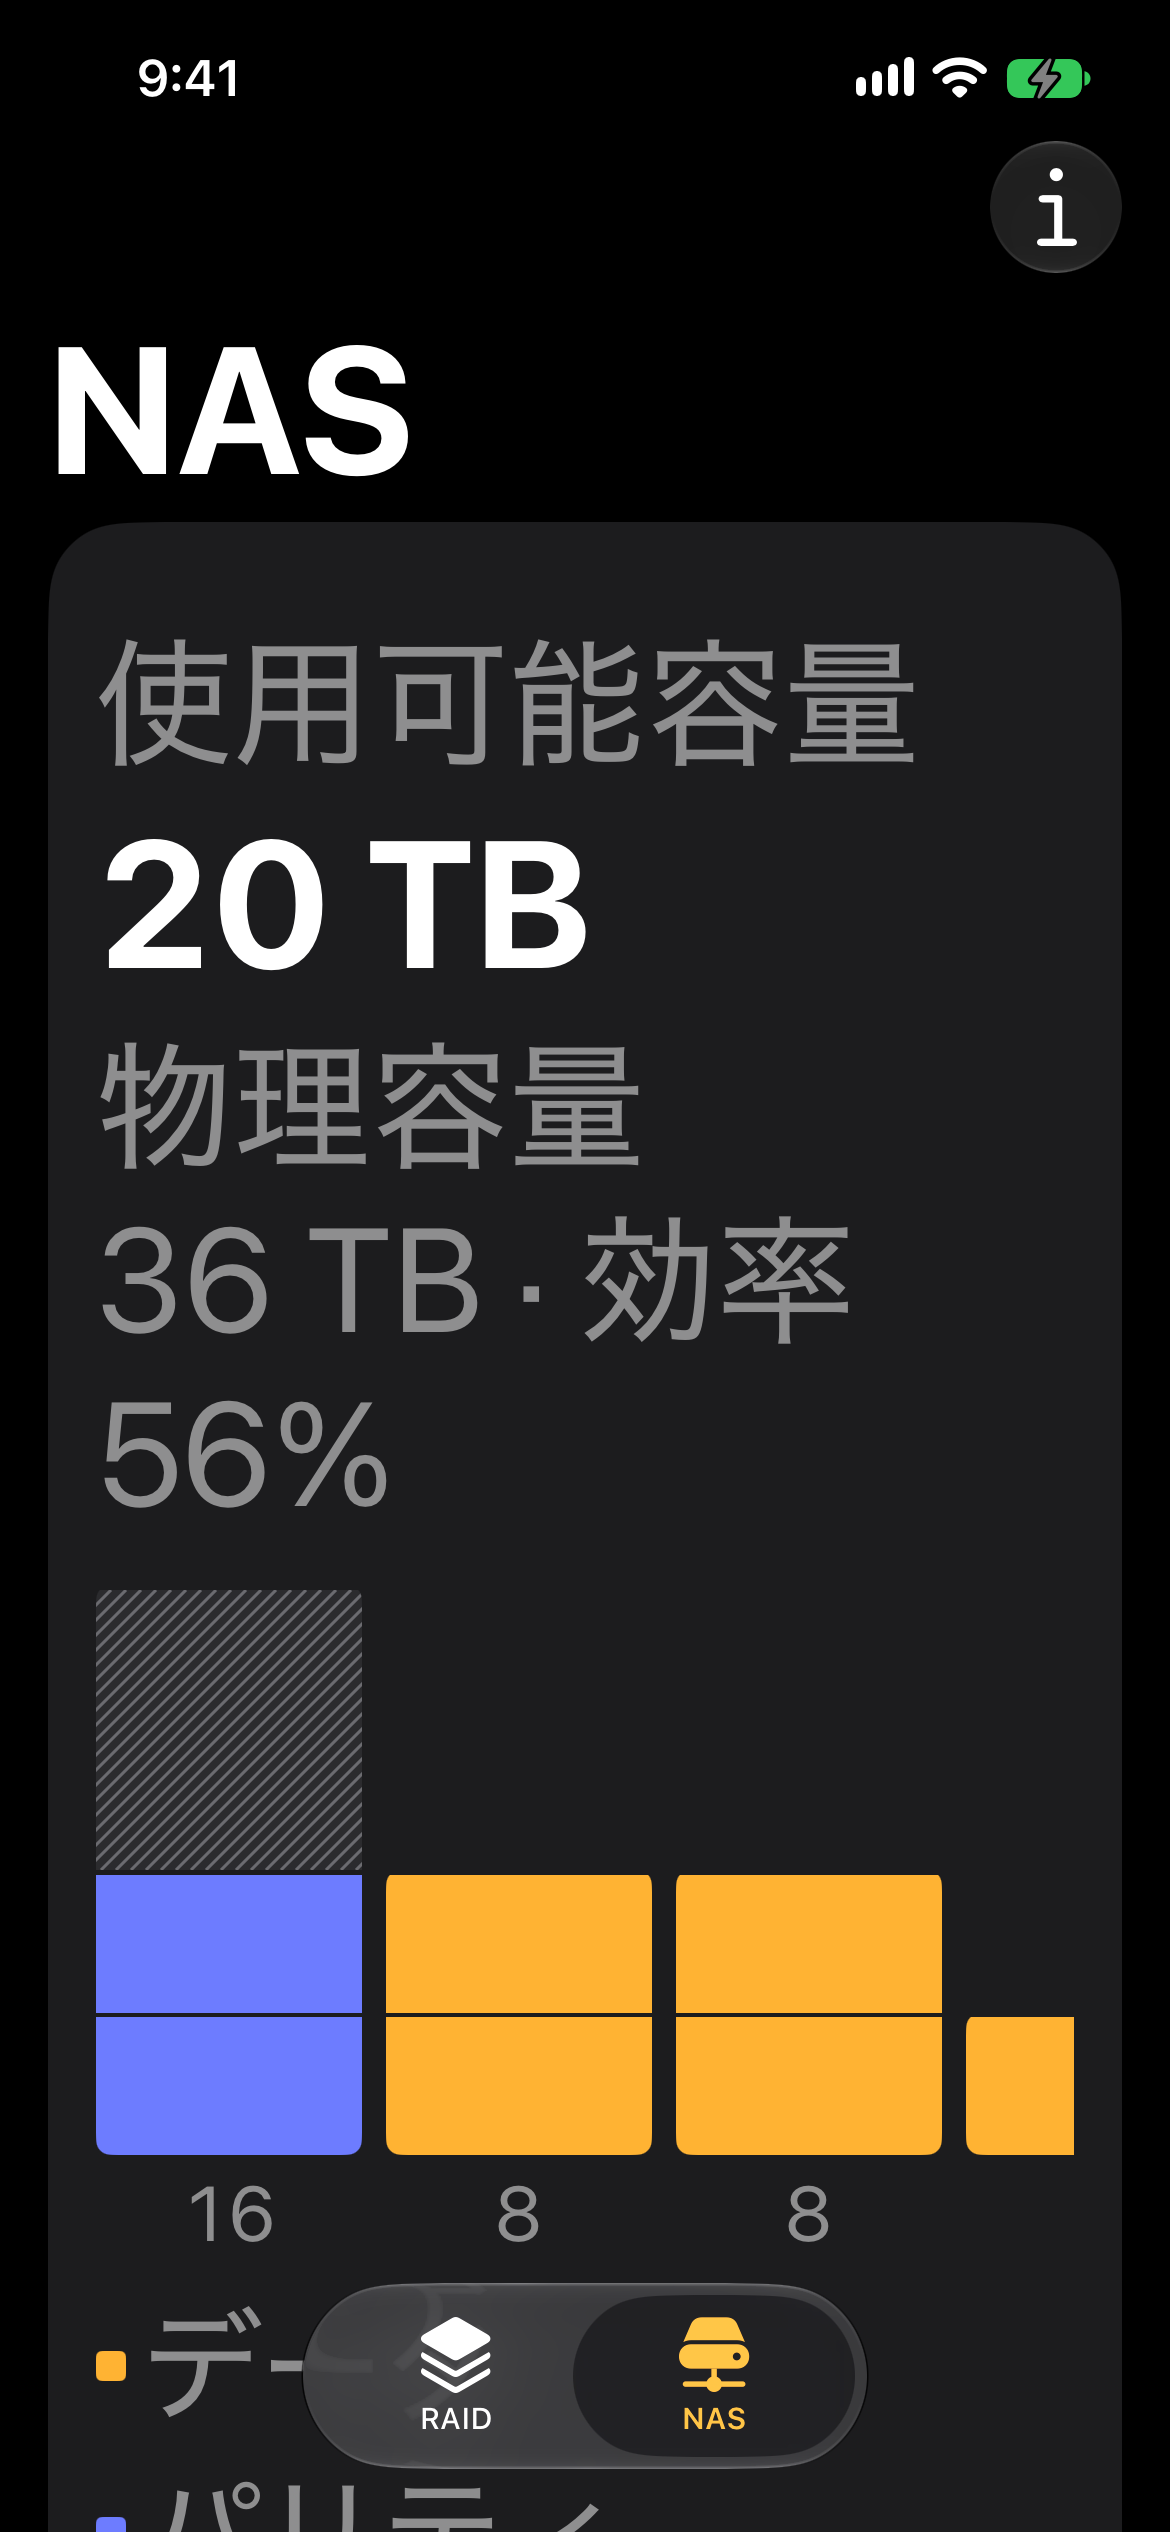
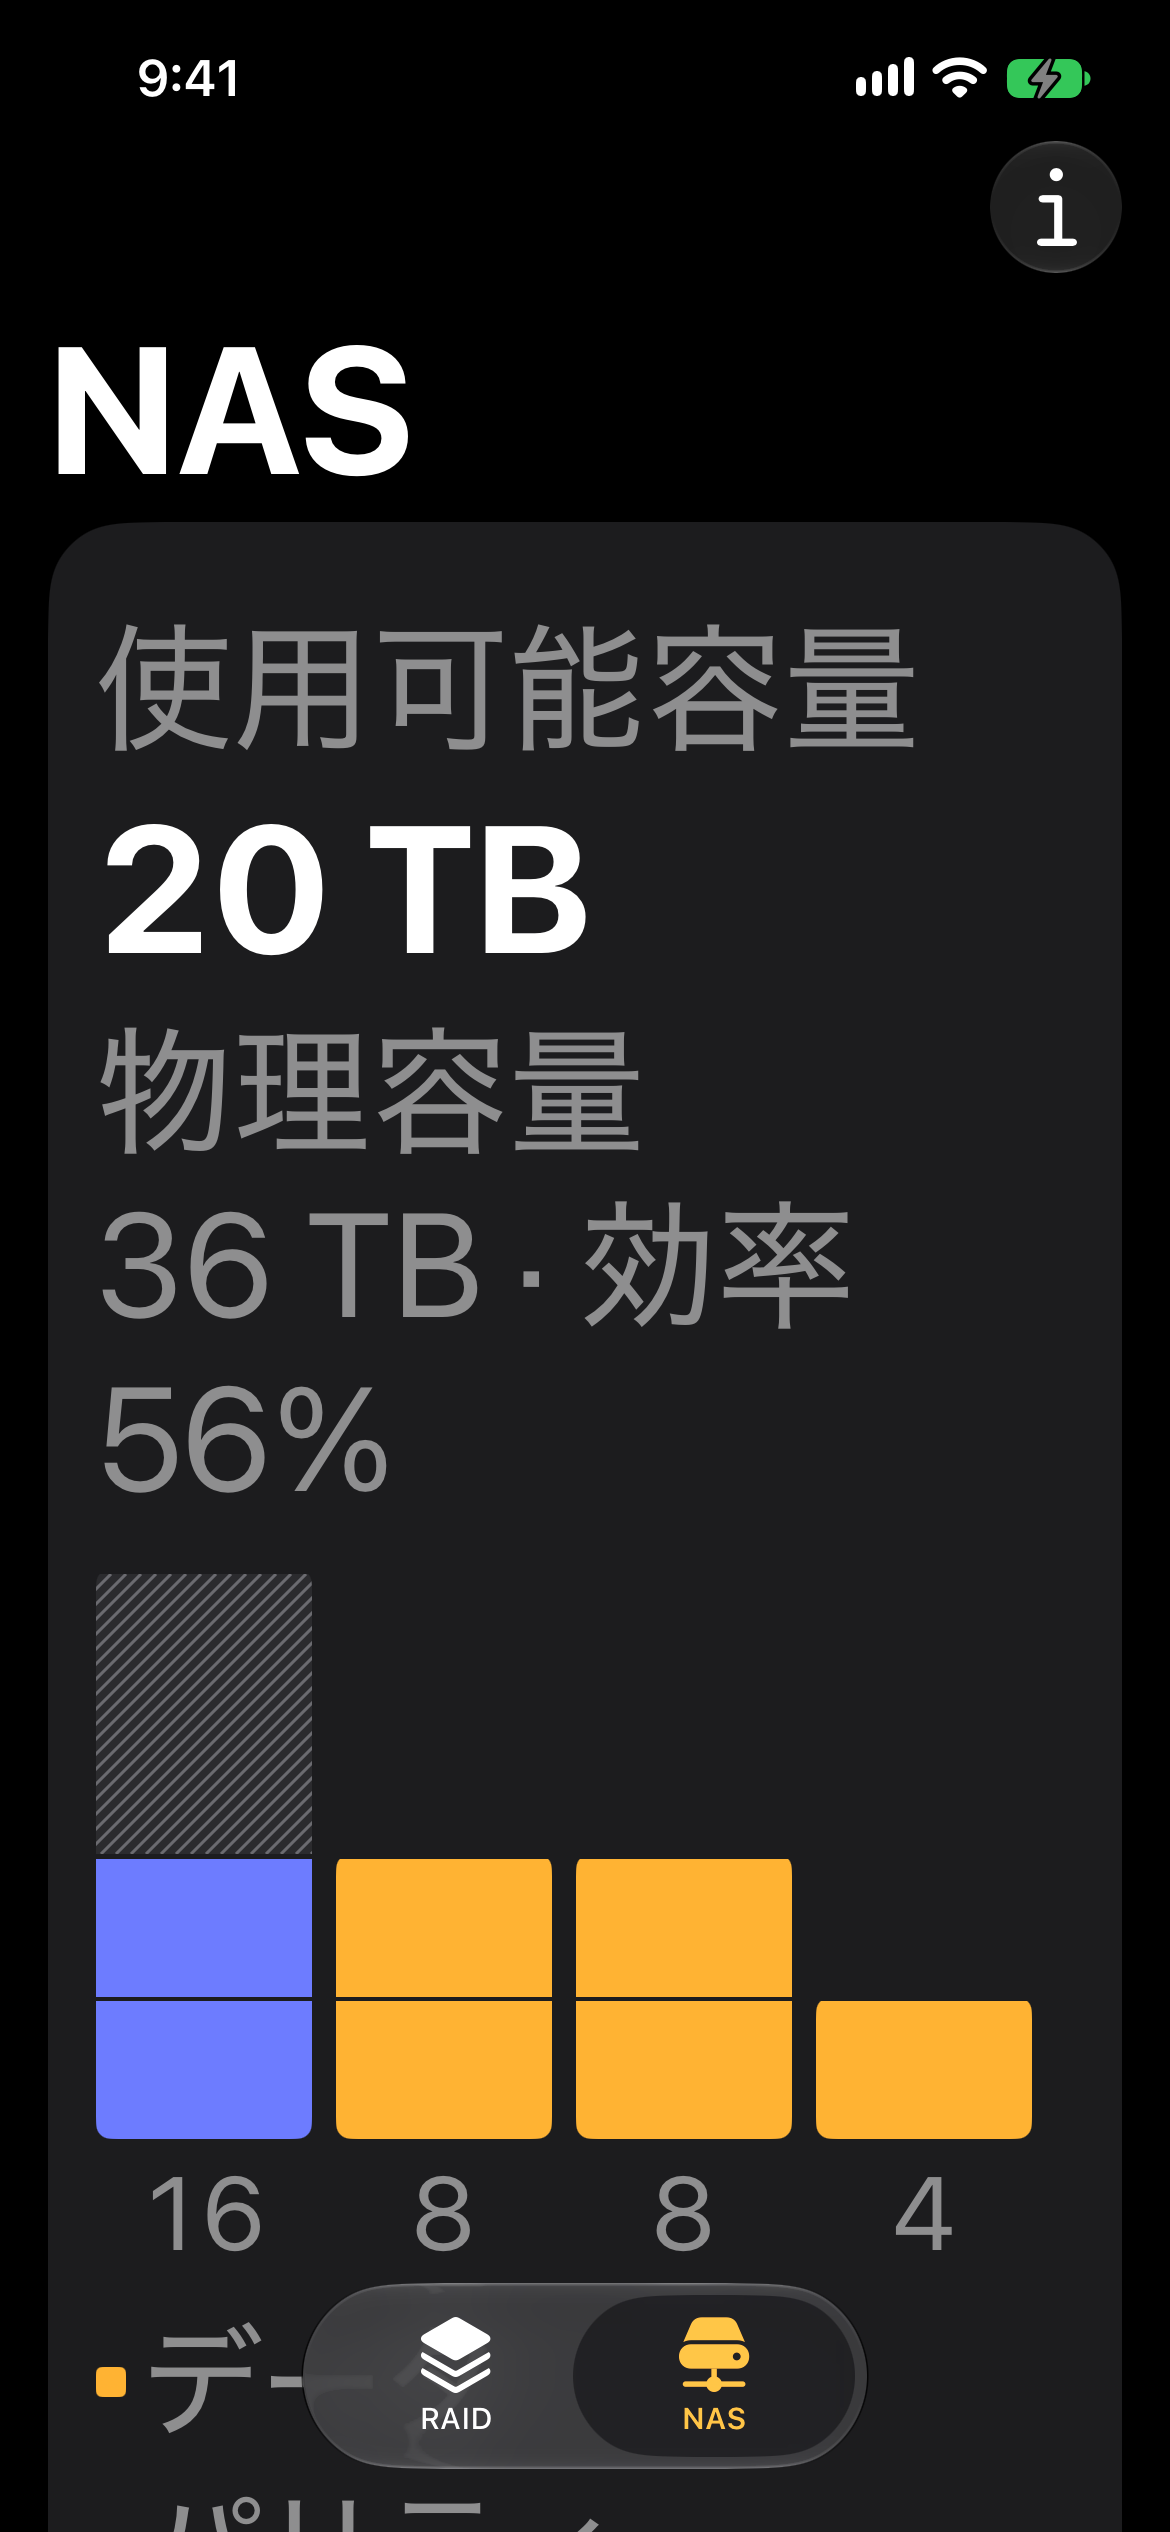
Cap the bay diagram's column width at large text sizes
At AX XXXL the scaled minimum column (24 pt relative to caption2)
reached about 87 pt, so on an iPhone 17e even Synology's four bays
scrolled and the fourth was cut off at the card edge. The minimum now
stops at 64 pt; the maximum stays max(72, minColumn). Four bays fit,
14 ZFS bays still scroll. Replaces the two affected sweep screenshots.

diff --git a/RaidCalculator2/NASView.swift b/RaidCalculator2/NASView.swift
@@ -446,8 +446,11 @@ struct BayDiagram: View {
     @Environment(\.horizontalSizeClass) private var horizontalSizeClass
     @Environment(\.dynamicTypeSize) private var dynamicTypeSize
     /// Narrowest a column gets before the diagram wraps (regular width) or
-    /// scrolls (compact). Grows with Dynamic Type, so labels stay readable.
-    @ScaledMetric(relativeTo: .caption2) private var minColumn: CGFloat = 24
+    /// scrolls (compact). Grows with Dynamic Type, so labels stay readable,
+    /// but stops at 64 pt: at the largest sizes the scaled value (about 87 pt)
+    /// pushed even four bays past a phone's card edge.
+    @ScaledMetric(relativeTo: .caption2) private var scaledMinColumn: CGFloat = 24
+    private var minColumn: CGFloat { min(scaledMinColumn, 64) }
     @State private var width: CGFloat = 0
 
     private var spacing: CGFloat { bays.count > 8 ? 4 : 8 }
